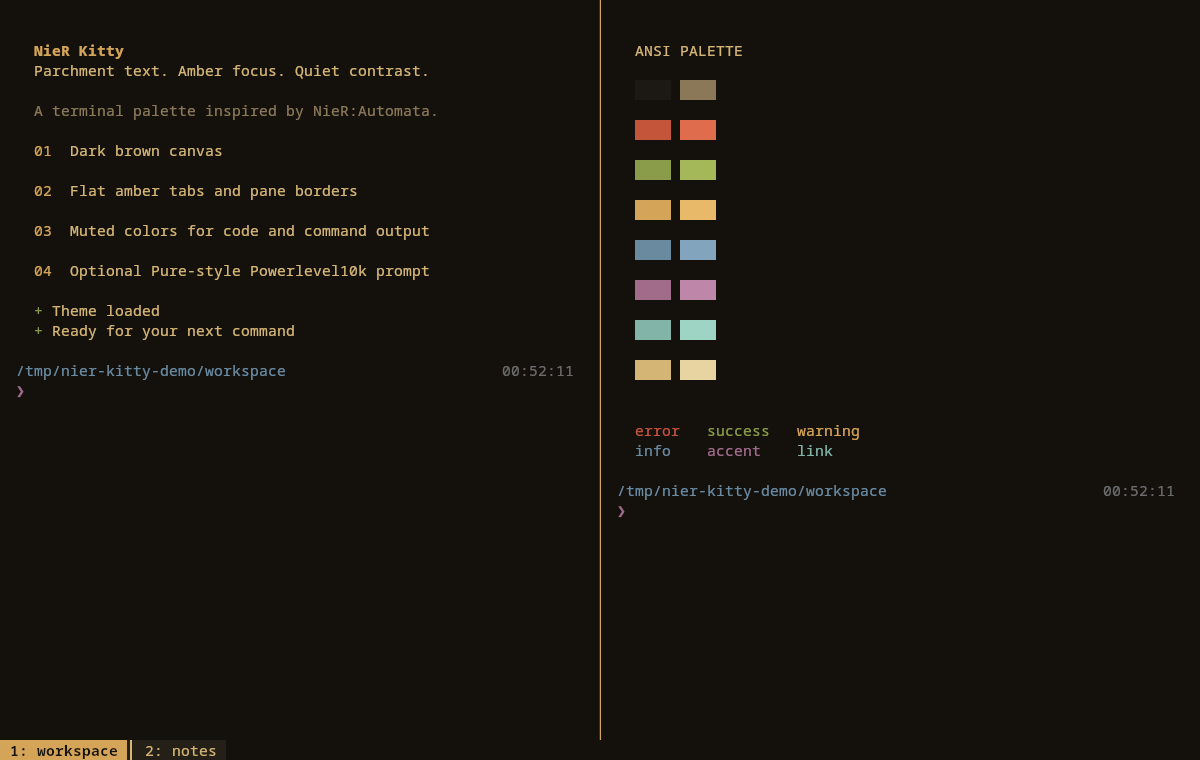
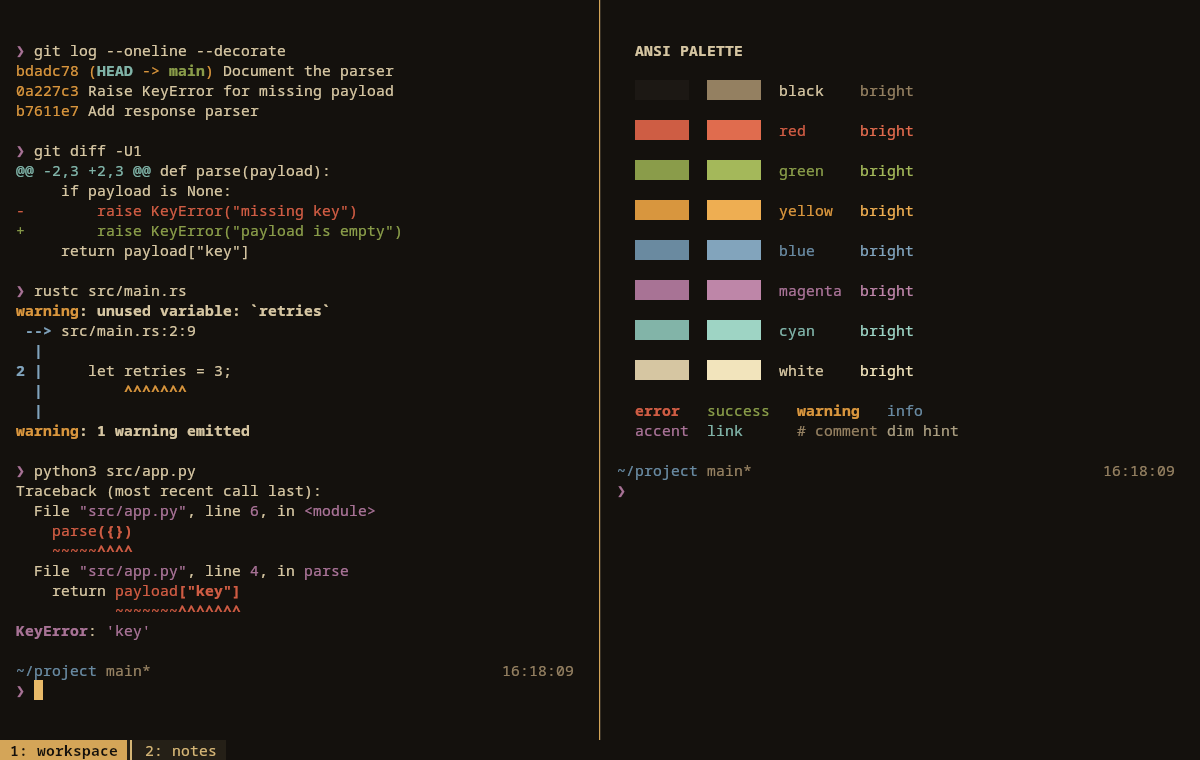
Refresh screenshots and README for both themes
New previews show real git, rustc, and Python output with the ANSI
palette in the dark theme and the Tennoworth light variant. The README
now covers both themes in one install flow and explains what the themes
set for readable tool output.

diff --git a/README.md b/README.md
@@ -1,20 +1,32 @@
 # NieR Kitty
 
-A dark brown, parchment, and amber look for [Kitty](https://sw.kovidgoyal.net/kitty/), inspired by NieR:Automata. Muted ANSI colors keep errors, diffs, and syntax distinct; flat amber tabs and borders mark keyboard focus.
+Two [Kitty](https://sw.kovidgoyal.net/kitty/) themes inspired by NieR:Automata: a dark brown, parchment, and amber theme, and a light paper-and-ink variant. Both are tuned for the output you read every day: Git hashes and diffs, compiler warnings and errors, tracebacks, and dim hint text each stay distinct from normal text. Flat tabs and pane borders mark keyboard focus.
 
-![NieR Kitty with the optional Pure-style prompt, ANSI palette, and split panes](assets/preview.png)
+![NieR Kitty dark theme: git log, git diff, a rustc warning, and a Python traceback beside the ANSI palette, with the optional Pure-style prompt](assets/preview.png)
 
-The theme works with any shell. The optional Zsh / Powerlevel10k preset adds a two-line Pure-style prompt, Git status, a 24-hour clock, and transient prompts.
+![Tennoworth light variant showing the same output and palette on khaki paper](assets/preview-light.png)
 
-## Install the Kitty theme
+The themes work with any shell. The optional Zsh / Powerlevel10k preset adds the two-line Pure-style prompt shown above, with Git status, a 24-hour clock, and transient prompts.
 
-Install Kitty using your distribution's package manager, then clone this repository:
+## What the themes set
+
+- **Distinct semantic colors.** Yellow output (Git hashes, warnings, quoted strings) no longer blends into body text, and errors and warnings meet 4.5:1 contrast. The light variant's six colors are chosen together so each pair stays easy to tell apart.
+- **Readable faint text.** `dim_opacity` keeps hints, timings, and secondary output legible.
+- **Themed 256-color palette.** `palette_generate semantic` derives colors 16–255 from the theme, so tools that use the extended palette (prompt grays, editor cursor lines) match it.
+- **Terminal chrome.** Selection, cursor, Kitty marks, numbered tabs, and pane borders.
+
+`assets/theme-improvements.html` compares real tool output (git, gcc, rustc, ls, Python) under the previous and current palettes, with measured contrast for each change.
+
+## Install a Kitty theme
+
+Install Kitty using your distribution's package manager, then clone this repository and choose a theme:
 
 ```sh
 git clone https://github.com/PedroAmorimP/nier-kitty.git
 cd nier-kitty
 kitty_dir="${XDG_CONFIG_HOME:-$HOME/.config}/kitty"
 mkdir -p "$kitty_dir"
+theme=nier.conf  # or tennoworth-light.conf for the light variant
 ```
 
 If you use `KITTY_CONFIG_DIRECTORY` or `kitty --config`, set `kitty_dir` to your actual configuration directory instead. Downloading and extracting the GitHub ZIP also works; run the remaining commands from the extracted directory.
@@ -23,43 +35,39 @@ Back up any existing files before copying:
 
 ```sh
 backup_stamp="$(date +%Y%m%d-%H%M%S)"
-for file in kitty.conf nier.conf; do
+for file in kitty.conf "$theme"; do
   if [ -e "$kitty_dir/$file" ]; then
     cp -p "$kitty_dir/$file" "$kitty_dir/$file.backup-$backup_stamp"
   fi
 done
-cp kitty/nier.conf "$kitty_dir/nier.conf"
+cp "kitty/$theme" "$kitty_dir/$theme"
 ```
 
-Add this line **once**, at the end of your existing `kitty.conf` (create that file if needed):
+Add **one** include line at the end of your existing `kitty.conf` (create that file if needed):
 
 ```conf
 include nier.conf
 ```
 
-Later settings override earlier ones, so put your own overrides after this include. If you use Kitty's theme picker afterward, check the ordering of its `current-theme.conf` include.
+For the light variant, use `include tennoworth-light.conf` instead. Include only one theme. Later settings override earlier ones, so put your own overrides after the include. If you use Kitty's theme picker afterward, check the ordering of its `current-theme.conf` include.
 
 Press **Ctrl+Shift+F5** to reload, or open a new Kitty window. Tabs appear when two or more tabs are open; **Ctrl+Shift+T** opens another tab with Kitty's default shortcuts.
 
-### Light variant
-
-`kitty/tennoworth-light.conf` is a light paper-and-ink variant. Install it the same way, copying it to `"$kitty_dir/tennoworth-light.conf"` and using `include tennoworth-light.conf` instead of `include nier.conf`. Include only one of the two themes.
-
-In the light variant, ANSI black is a paper tone so black-on-color badges (for example `ls` on `/tmp`) stay readable; plain black text is therefore very faint.
+In the light variant, ANSI black is a paper tone so black-on-color badges (for example `ls` on `/tmp`) stay readable; plain black text is therefore very faint. White stays a readable ink, so white-on-red badges (for example `ls` on setuid files) are hard to read.
 
 ## Match the font
 
-The original setup uses the system monospace selection, which resolves to **Noto Sans Mono** on the author's machine. Install that font separately to match it; no font files are bundled. Add after the theme include:
+The screenshots use **Noto Sans Mono** at `font_size 11.0`. Install that font separately to match them; no font files are bundled. Add after the theme include:
 
 ```conf
 font_family Noto Sans Mono
 ```
 
-The preview uses `font_size 11.0`. Font size is your choice; the theme does not set it. You can also use Kitty's [font chooser](https://sw.kovidgoyal.net/kitty/kittens/choose-fonts/). The supplied prompt hides segment icons, so it does not require a Nerd Font specifically; your font or fallback must cover its arrows and prompt symbols.
+Font size is your choice; the theme does not set it. You can also use Kitty's [font chooser](https://sw.kovidgoyal.net/kitty/kittens/choose-fonts/). The supplied prompt hides segment icons, so it does not require a Nerd Font specifically; your font or fallback must cover its arrows and prompt symbols.
 
 ## Optional: the matching shell prompt
 
-Requires Zsh and [Powerlevel10k](https://github.com/romkatv/powerlevel10k#installation). Install and load Powerlevel10k using its upstream instructions for your shell setup. Oh My Zsh and CachyOS are not required.
+Requires Zsh and [Powerlevel10k](https://github.com/romkatv/powerlevel10k#installation). Install and load Powerlevel10k using its upstream instructions for your shell setup. Oh My Zsh and CachyOS are not required. The prompt uses ANSI colors, so it follows whichever theme you include.
 
 From this repository's directory:
 
@@ -84,7 +92,7 @@ This only supplies the prompt. Autosuggestions, syntax highlighting, aliases, an
 
 ## Customize
 
-Put overrides after `include nier.conf`, for example:
+Put overrides after the theme include, for example:
 
 ```conf
 # Show the tab bar even with a single tab.
@@ -100,9 +108,9 @@ enabled_layouts splits
 map ctrl+shift+enter launch --location=vsplit --cwd=current
 ```
 
-These optional lines select the splits layout and override that shortcut. See the [layouts guide](https://sw.kovidgoyal.net/kitty/layouts/) for other arrangements. The preview uses two panes, two tabs, and `window_padding_width 12`.
+These optional lines select the splits layout and override that shortcut. See the [layouts guide](https://sw.kovidgoyal.net/kitty/layouts/) for other arrangements. The screenshots use two panes, two tabs, and `window_padding_width 12`.
 
-The theme sets terminal colors, faint-text opacity, the extended 256-color palette, numbered tab titles, tab visibility, and border width. It does not change your shell, keyboard shortcuts, layouts, or workspace commands. Desktop decorations are controlled by your window manager.
+The themes do not change your shell, keyboard shortcuts, layouts, or workspace commands. Desktop decorations are controlled by your window manager.
 
 ### Apps with their own colors
 
@@ -117,13 +125,11 @@ export FZF_DEFAULT_OPTS="--color=16"
 
 Editors such as Neovim with `termguicolors` also use their own colorscheme.
 
-`assets/theme-improvements.html` compares real tool output (git, gcc, rustc, ls, Python) under the previous and current palettes.
-
 ## Update or remove
 
 To update, run `git pull --ff-only` in your clone, back up the installed files as above, and copy the theme and optional prompt again. Do not add duplicate include/source lines. Local edits to installed copies will be replaced, so keep Kitty overrides in `kitty.conf` after the include.
 
-To remove the theme, remove `include nier.conf` from `kitty.conf`, remove any font or appearance overrides you added, then reload Kitty. Delete the installed `nier.conf` only after removing its include. If it replaced a pre-existing file, restore that file from your backup instead.
+To remove a theme, remove its include line from `kitty.conf`, remove any font or appearance overrides you added, then reload Kitty. Delete the installed theme file only after removing its include. If it replaced a pre-existing file, restore that file from your backup instead.
 
 To remove the optional prompt, remove its source line from `.zshrc`, restore your previous prompt source line, and open a new shell. You can then delete the installed `nier-kitty/p10k.zsh` or restore its previous version from backup. Keep backups until you are satisfied with the result.
 
@@ -131,6 +137,6 @@ To remove the optional prompt, remove its source line from `.zshrc`, restore you
 
 Verified on Linux with Kitty 0.49.1 and Zsh / Powerlevel10k. `palette_generate` requires Kitty 0.47 or newer; older versions warn about the unknown option and keep the default 256-color palette. macOS is untested. Refer to [Kitty's configuration reference](https://sw.kovidgoyal.net/kitty/conf/) for configuration paths and platform-specific reload shortcuts.
 
-The palette was adapted from the author's local NieR-inspired Konsole and KDE color schemes, with a brighter ANSI bright-black for readable comments. This is an unofficial fan-made terminal theme; no game artwork or fonts are included.
+The dark palette was adapted from the author's local NieR-inspired Konsole and KDE color schemes. The light variant uses the paper and ink tones of the author's Tennoworth YoRHa light theme. This is an unofficial fan-made terminal theme; no game artwork or fonts are included.
 
 Original work is [MIT licensed](LICENSE). The optional prompt derives from Powerlevel10k's `p10k-pure.zsh` preset, inspired by [Pure](https://github.com/sindresorhus/pure); its upstream MIT notice is retained in [licenses/powerlevel10k.txt](licenses/powerlevel10k.txt).
